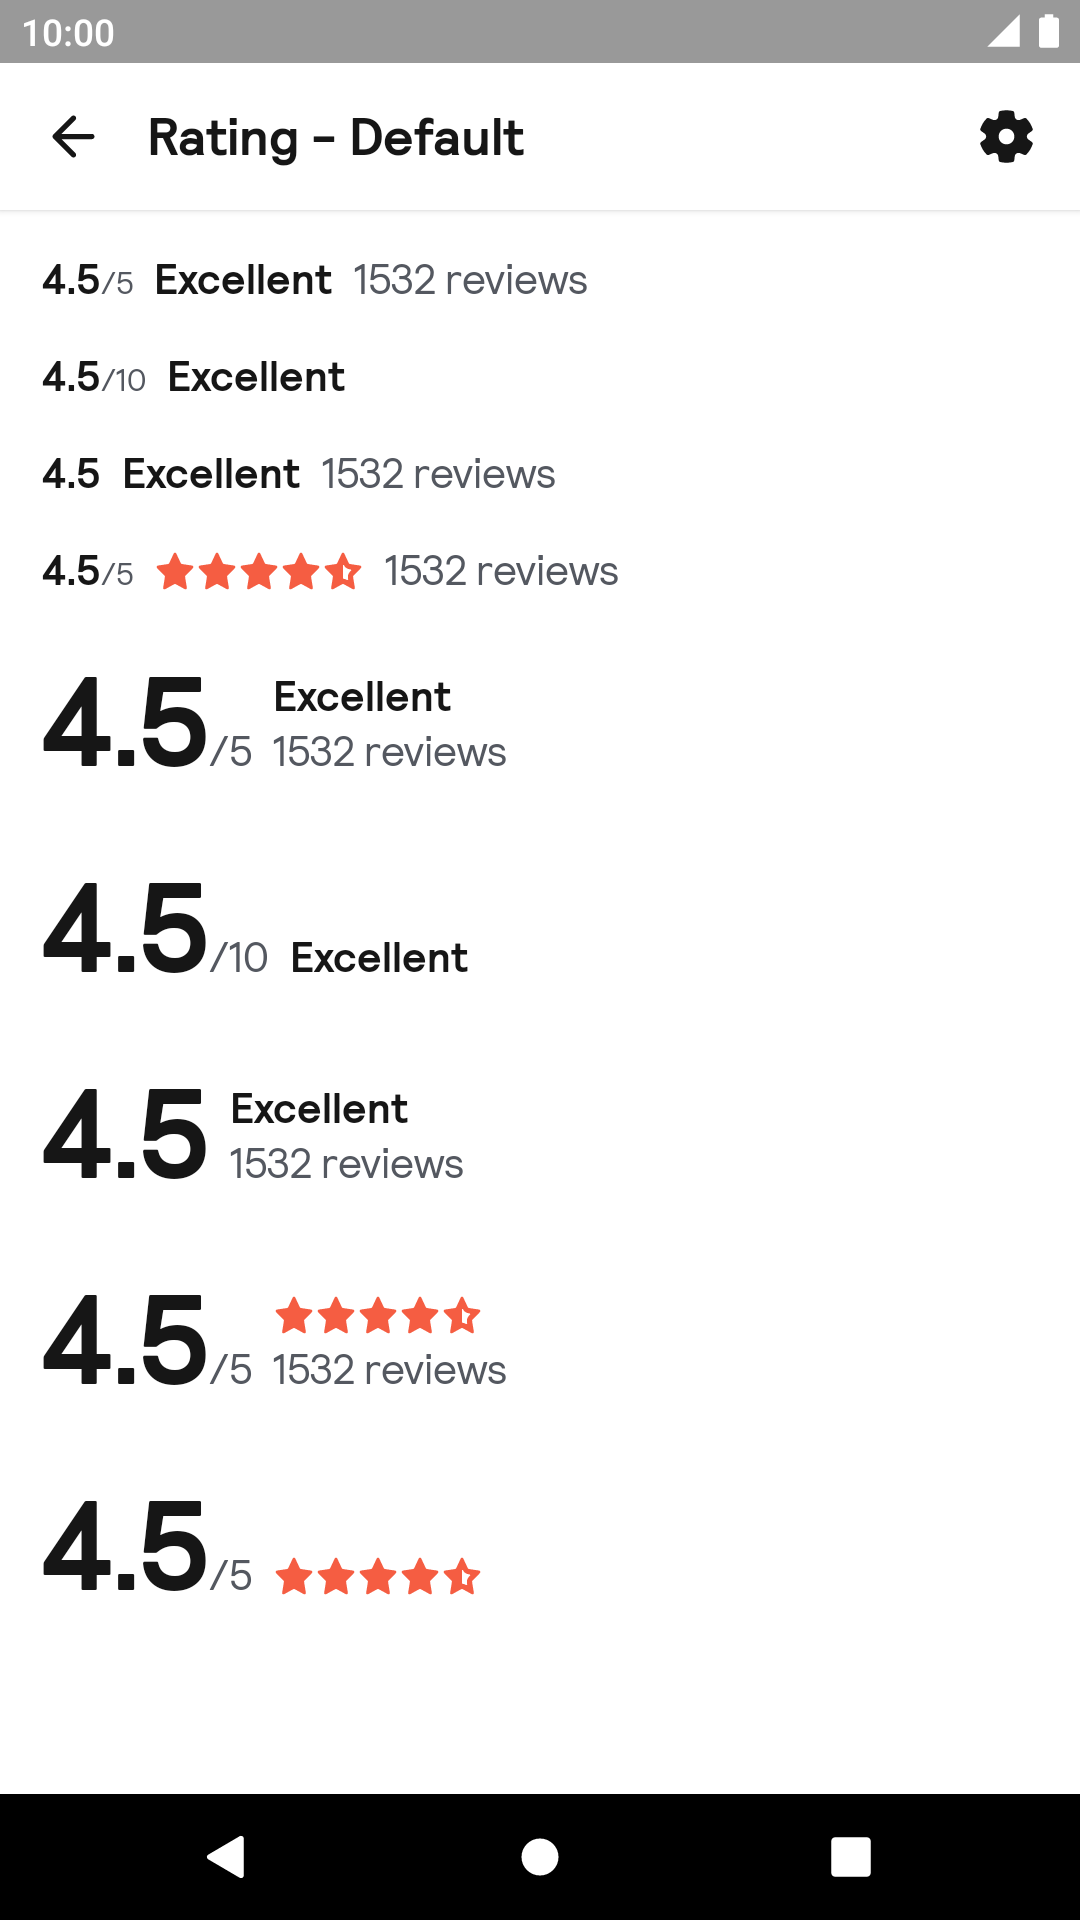
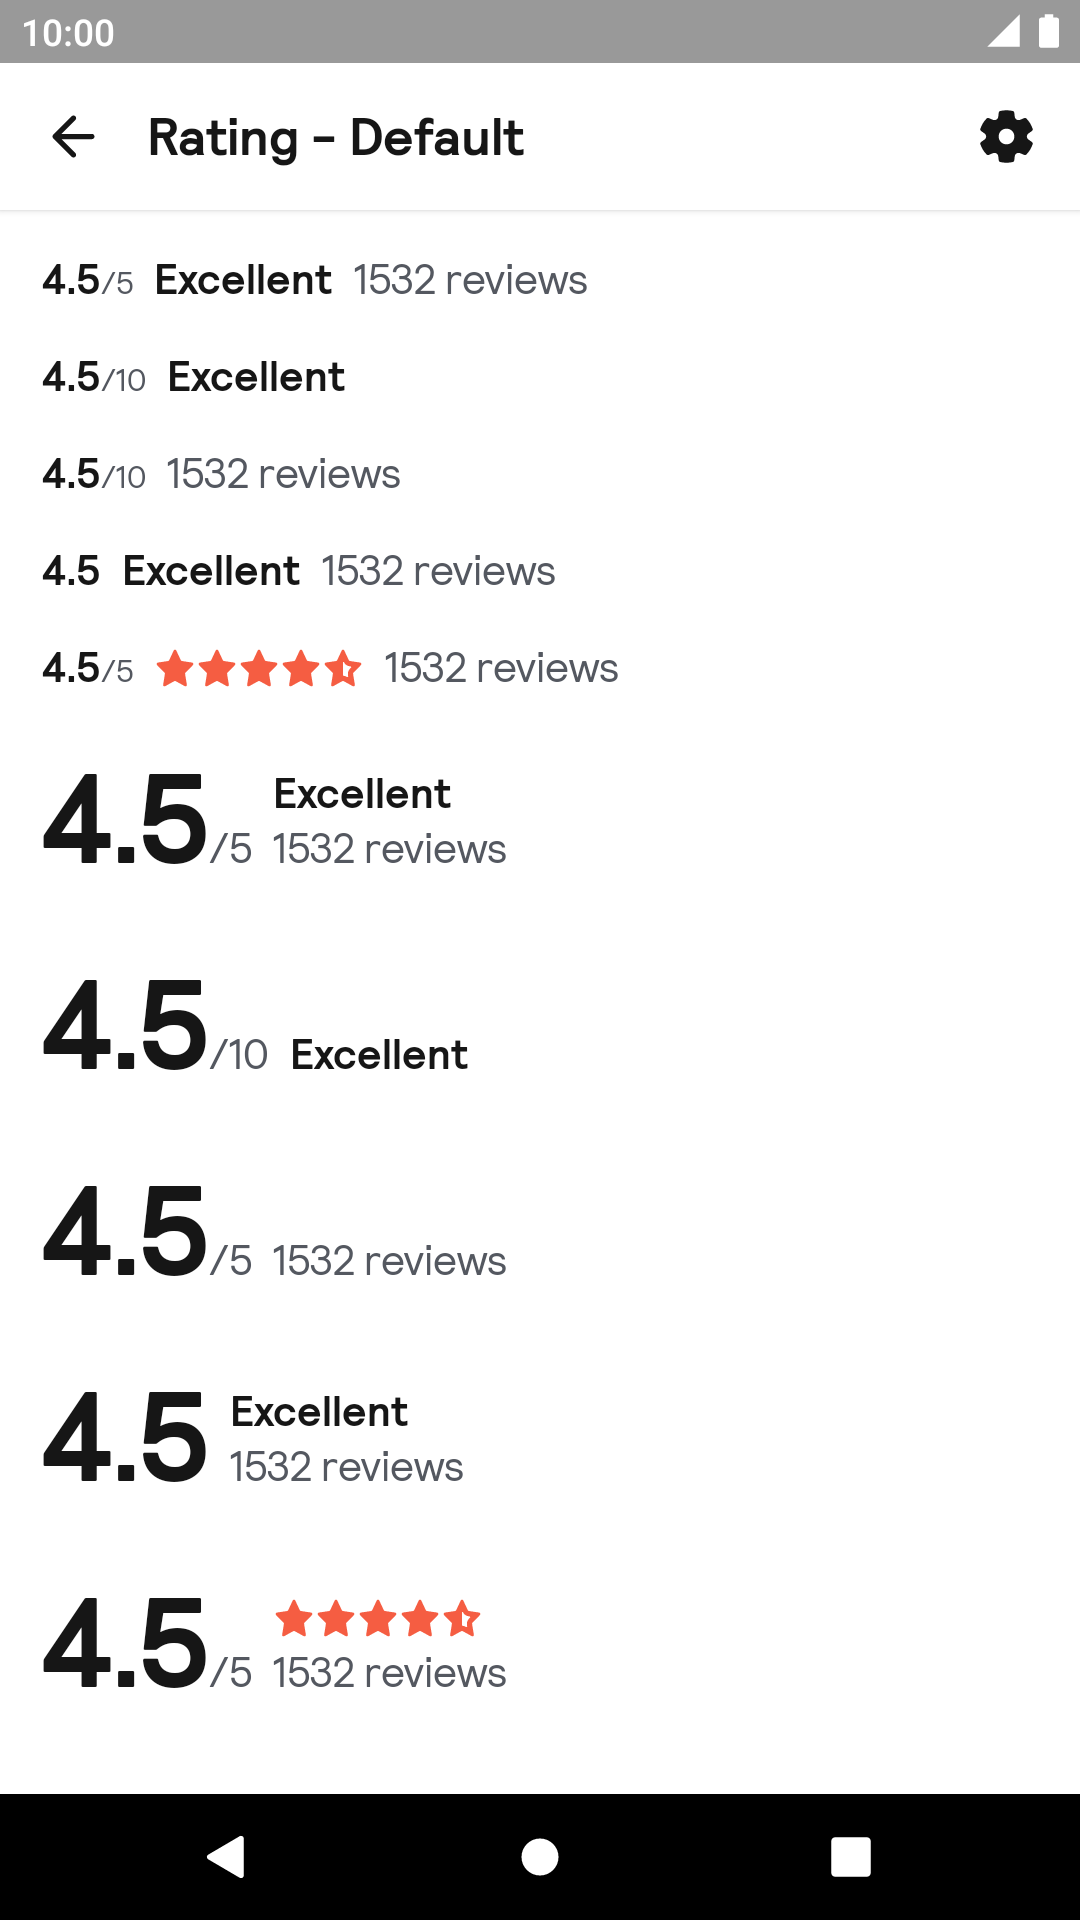
KOA-5993 Make rating title not required (#1523)
* Made the title optional

* Updated the screenshots

* No breaking change

* Compilation fix

* Updated snapshots for 'default'

* Trigger CI

* Trigger CI

---------

diff --git a/app/src/main/java/net/skyscanner/backpack/demo/compose/RatingStory.kt b/app/src/main/java/net/skyscanner/backpack/demo/compose/RatingStory.kt
@@ -49,11 +49,13 @@ fun RatingStory(modifier: Modifier = Modifier) {
     ) {
         BpkRatingDefaultSample()
         BpkRatingTitleOnlySample()
+        BpkRatingNoTitleSample()
         BpkRatingNoScaleSample()
         BpkRatingCustomContentSample()
 
         BpkRatingLargeSample()
         BpkRatingLargeTitleOnlySample()
+        BpkRatingLargeNoTitleSample()
         BpkRatingLargeNoScaleSample()
         BpkRatingLargeCustomContentSample()
         BpkRatingLargeCustomContentNoSubtitleSample()
@@ -67,6 +69,17 @@ internal fun BpkRatingDefaultSample(modifier: Modifier = Modifier) {
         title = stringResource(R.string.rating_title),
         subtitle = stringResource(R.string.rating_subtitle),
         value = RatingValue,
+    )
+}
+
+@Composable
+internal fun BpkRatingNoTitleSample(modifier: Modifier = Modifier) {
+    BpkRating(
+        modifier = modifier,
+        title = null,
+        subtitle = stringResource(R.string.rating_subtitle),
+        value = RatingValue,
+        scale = BpkRatingScale.ZeroToTen,
     )
 }
 
@@ -121,6 +134,17 @@ internal fun BpkRatingLargeTitleOnlySample(modifier: Modifier = Modifier) {
         value = RatingValue,
         size = BpkRatingSize.Large,
         scale = BpkRatingScale.ZeroToTen,
+    )
+}
+
+@Composable
+internal fun BpkRatingLargeNoTitleSample(modifier: Modifier = Modifier) {
+    BpkRating(
+        modifier = modifier,
+        title = null,
+        subtitle = stringResource(R.string.rating_subtitle),
+        value = RatingValue,
+        size = BpkRatingSize.Large,
     )
 }
 

diff --git a/app/src/androidTest/java/net/skyscanner/backpack/compose/rating/BpkRatingTest.kt b/app/src/androidTest/java/net/skyscanner/backpack/compose/rating/BpkRatingTest.kt
@@ -30,6 +30,8 @@ import net.skyscanner.backpack.demo.compose.BpkRatingLargeCustomContentSample
 import net.skyscanner.backpack.demo.compose.BpkRatingLargeNoScaleSample
 import net.skyscanner.backpack.demo.compose.BpkRatingLargeSample
 import net.skyscanner.backpack.demo.compose.BpkRatingLargeTitleOnlySample
+import net.skyscanner.backpack.demo.compose.BpkRatingLargeNoTitleSample
+import net.skyscanner.backpack.demo.compose.BpkRatingNoTitleSample
 import net.skyscanner.backpack.demo.compose.BpkRatingNoScaleSample
 import net.skyscanner.backpack.demo.compose.BpkRatingTitleOnlySample
 import org.junit.Test
@@ -48,6 +50,14 @@ class BpkRatingTest : BpkSnapshotTest() {
     fun titleOnly() {
         snap {
             BpkRatingTitleOnlySample()
+        }
+    }
+
+    @Test
+    @Variants(BpkTestVariant.Default)
+    fun noTitle() {
+        snap {
+            BpkRatingNoTitleSample()
         }
     }
 
@@ -77,6 +87,14 @@ class BpkRatingTest : BpkSnapshotTest() {
     fun largeTitleOnly() {
         snap {
             BpkRatingLargeTitleOnlySample()
+        }
+    }
+
+    @Test
+    @Variants(BpkTestVariant.Default)
+    fun largeNoTitle() {
+        snap {
+            BpkRatingLargeNoTitleSample()
         }
     }
 

diff --git a/backpack-compose/src/main/kotlin/net/skyscanner/backpack/compose/rating/internal/BpkRatingLayout.kt b/backpack-compose/src/main/kotlin/net/skyscanner/backpack/compose/rating/internal/BpkRatingLayout.kt
@@ -34,10 +34,10 @@ internal fun BpkRatingLayout(
     value: Float,
     scale: BpkRatingScale,
     size: BpkRatingSize,
+    title: @Composable (() -> Unit)?,
     subtitle: String?,
     showScale: Boolean,
     modifier: Modifier = Modifier,
-    title: @Composable () -> Unit,
 ) {
 
     Row(
@@ -56,7 +56,9 @@ internal fun BpkRatingLayout(
         when (size) {
 
             BpkRatingSize.Base -> {
-                BpkRatingTitle(Modifier.alignByBaseline(), title)
+                if (title != null) {
+                    BpkRatingTitle(Modifier.alignByBaseline(), title)
+                }
                 if (subtitle != null) {
                     BpkRatingSubtitle(subtitle, Modifier.alignByBaseline())
                 }
@@ -66,7 +68,9 @@ internal fun BpkRatingLayout(
                 Column(
                     modifier = Modifier.alignBy(LastBaseline),
                 ) {
-                    BpkRatingTitle(content = title)
+                    if (title != null) {
+                        BpkRatingTitle(content = title)
+                    }
                     if (subtitle != null) {
                         BpkRatingSubtitle(subtitle)
                     }

diff --git a/backpack-compose/src/main/kotlin/net/skyscanner/backpack/compose/rating/BpkRating.kt b/backpack-compose/src/main/kotlin/net/skyscanner/backpack/compose/rating/BpkRating.kt
@@ -36,7 +36,7 @@ enum class BpkRatingScale {
 
 @Composable
 fun BpkRating(
-    title: String,
+    title: String?,
     value: Float,
     modifier: Modifier = Modifier,
     scale: BpkRatingScale = BpkRatingScale.ZeroToFive,
@@ -51,13 +51,14 @@ fun BpkRating(
         size = size,
         subtitle = subtitle,
         showScale = showScale,
-    ) {
-        BpkText(
-            text = title,
-            maxLines = 1,
-            overflow = TextOverflow.Ellipsis,
-        )
-    }
+        title = if (title != null) { ->
+            BpkText(
+                text = title,
+                maxLines = 1,
+                overflow = TextOverflow.Ellipsis,
+            )
+        } else null,
+    )
 }
 
 @Composable
@@ -71,13 +72,12 @@ fun BpkRating(
     title: @Composable () -> Unit,
 ) {
     BpkRatingLayout(
+        title = title,
         value = value,
         modifier = modifier,
         scale = scale,
         size = size,
         subtitle = subtitle,
         showScale = showScale,
-    ) {
-        title()
-    }
+    )
 }
